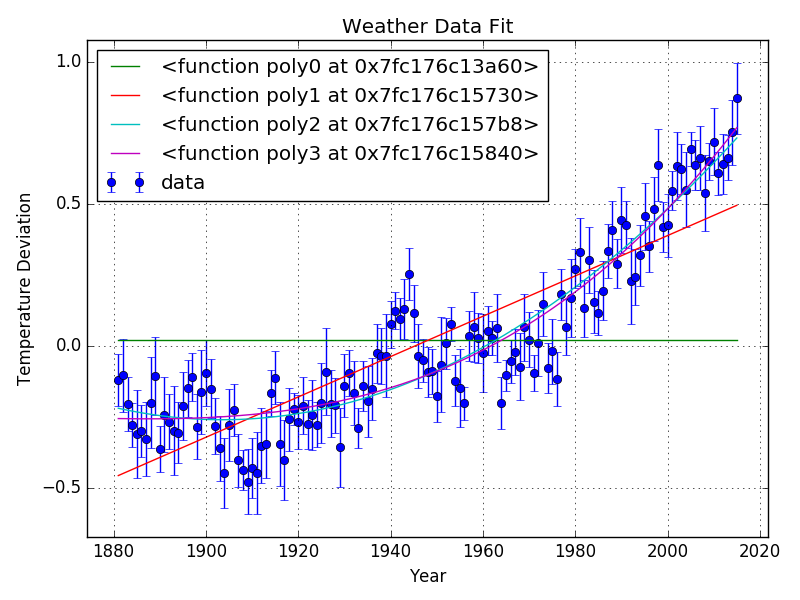
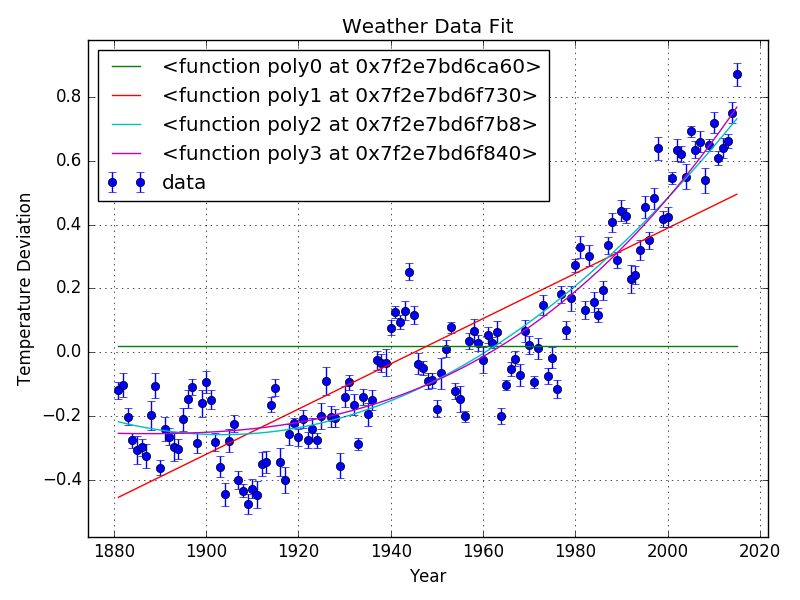
Fix standard error

diff --git a/04/weather.py b/04/weather.py
@@ -42,7 +42,7 @@ def main():
     years = data[:, 0]
     temps = data[:, 1:13]
     means = np.mean(temps, axis=1)
-    stds = np.std(temps, axis=1)
+    stds = np.std(temps, axis=1) / np.sqrt(12)
 
     fig = pl.figure()
     ax = fig.add_subplot(1, 1, 1)
@@ -63,7 +63,7 @@ def main():
         chi_sq = np.sum(residuals**2 / stds**2)
         dof = len(years) - len(popt) - 1
         p_value = 1 - stats.chi2.cdf(chi_sq, dof)
-        print('| {} | {:.2g} | {:.2g} | {:.2g} |'.format(degree, chi_sq, chi_sq/dof, p_value))
+        print('| {} | {:.4g} | {:.4g} | {:.4g} |'.format(degree, chi_sq, chi_sq/dof, p_value))
 
     ax.set_title('Weather Data Fit')
     ax.set_xlabel('Year')
